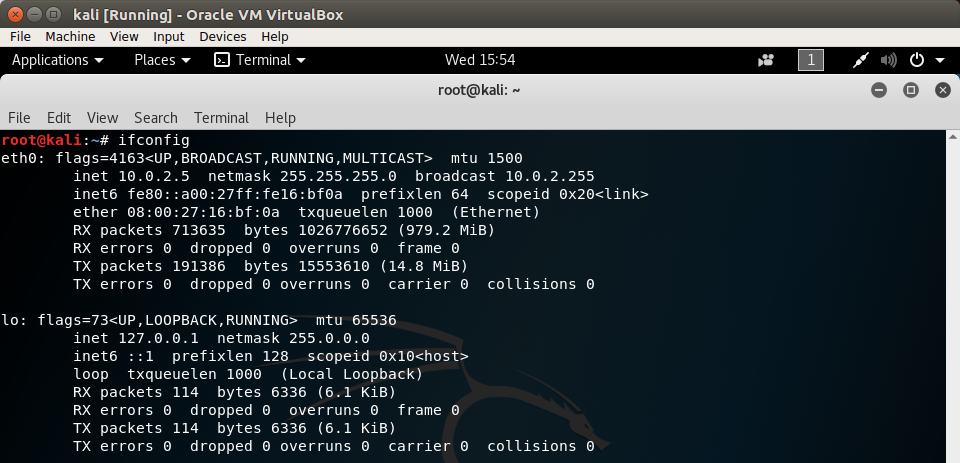
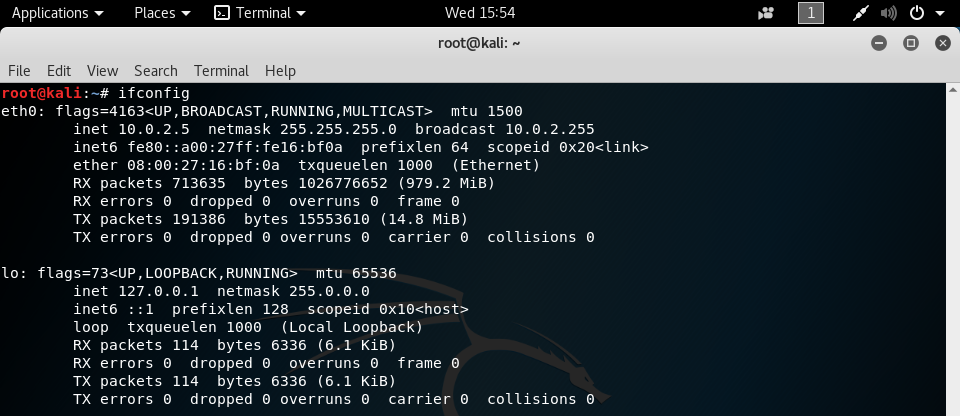
Cropping images and adding SQL injection portion to the writeup

diff --git a/kioptrix1-1/kioptrix1-1.md b/kioptrix1-1/kioptrix1-1.md
@@ -20,5 +20,15 @@ We can see that the target has several ports open, and we'll run down the list t
 
 ## Gaining Access
 
-Using the `searchsploit` command, we can look for exploits that the target could be vulnerable to.
+Using the `searchsploit` command, we can look for exploits that the target could be vulnerable to. Running `searchsploit openssh` shows us all of the exploits available for OpenSSH from [exploit-db](https://www.exploit-db.com/ "exploit-db"), but unfortunately, none of them are of interest to us. We're looking for something that can give us remote code execution, and the only one found that does that is for OpenSSH 3.5p1, while the version on the target is more recent than that.
+
+Next, since http is running on port 80, we can try to navigate to the IP address in a web browser and see what we can find. Loading up `http://10.0.2.4` in Firefox gives us a login screen for remote system administration. This seems like a promising attack vector.
+
+![](images/login.png "http://10.0.2.4 loaded in Firefox")
+
+Since MySQL is also running on the target machine, it's likely that this login form is using SQL, and we can check to see if it's vulnerable to an SQL injection. A simple login SQL query would be something like `SELECT id FROM Users WHERE Username = 'InputUsername' AND Password = 'InputPassword'`, so we can manipulate the username and password parameters to get a valid SQL statement that will let us log in. If we use `' OR ''='` for both the username and the password, then the SQL query becomes `SELECT id FROM Users WHERE Username = '' OR ''='' AND Password = '' OR ''=''`, which checks to see if there exists a username and password combo that are empty strings, or if '' is the same as '', which it is. This means that the SQL statement is valid, and it will log us in as the first user in the user table, and we now have access to the administrative console.
+
+![](images/console.png "Using ' OR ''=' for both the username and password logs us in to the admin console")
+
+
 
